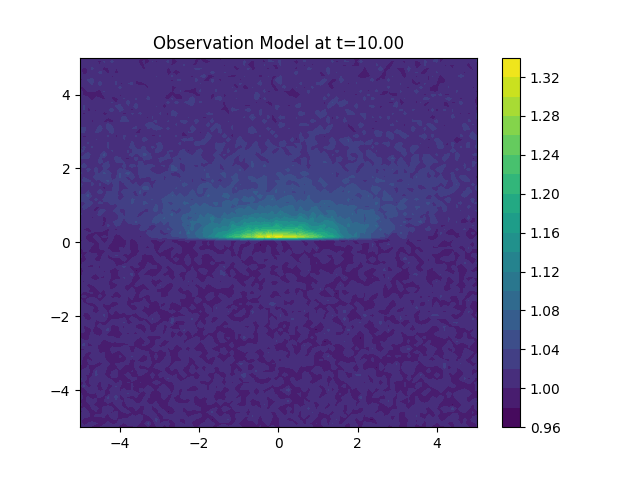
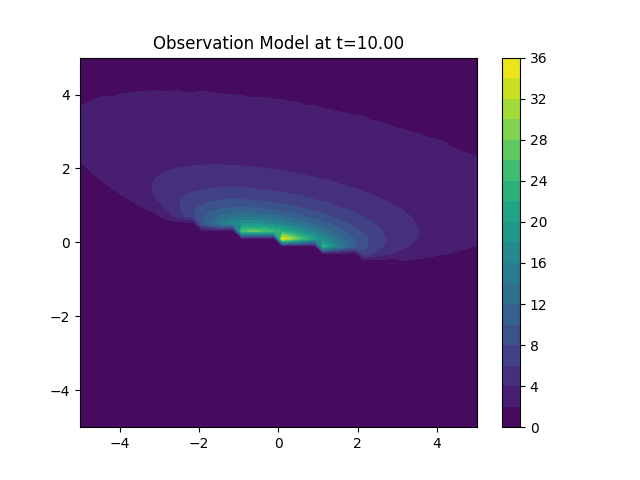
Changed wind to be varting

diff --git a/Code/source_varying_functions.py b/Code/source_varying_functions.py
@@ -1,6 +1,14 @@
 import numpy as np
 from math import cos, sin
 
+
+
+def wind_function(t, wa0, wa, wb):
+    wind = np.array(wa0)
+    for k in range(len(wa)):
+        wind += wa[k] * cos(2 * np.pi * (k + 1) * t) + wb[k] * sin(2 * np.pi * (k + 1) * t)
+    return wind
+
 def s_function(t,ak,bk,a0):
     n_coeff = ak.shape[0]
     constant = a0
@@ -55,7 +63,7 @@ def rwmh(start_point, proposal_variance, n_steps, log_posterior):
 
 
 
-def A_matrix(x_sensor, y_sensor, constants):
+def A_matrix(x_sensor, y_sensor, constants, wind_vector=None):
     """
     Calculates the concentration using the Gaussian plume formula with reflections.
     Supports both scalar and vectorized (grid) inputs for x_sensor and y_sensor.
@@ -63,9 +71,18 @@ def A_matrix(x_sensor, y_sensor, constants):
     # 1. Extract Geometry & Wind
     XS, YS, ZS = constants['XS'], constants['YS'], constants['ZS'] # Source
     Z = constants['Z']  # Sensor Height
-    u_vec = np.array(constants['wind_vector'])
-    u_vec = u_vec / np.linalg.norm(u_vec) # Ensure unit vector
-    U_speed = constants['U']
+    
+    if wind_vector is not None:
+        U_speed = np.linalg.norm(wind_vector)
+        if U_speed > 1e-6:
+            u_vec = wind_vector / U_speed
+        else:
+            # Handle zero wind case if necessary, or assume small non-zero
+            u_vec = np.array([1.0, 0.0]) 
+    else:
+        u_vec = np.array(constants['wind_vector'])
+        u_vec = u_vec / np.linalg.norm(u_vec) # Ensure unit vector
+        U_speed = constants['U']
     
     # 2. Coordinate Rotation
     # Ensure inputs are arrays for uniform processing
@@ -145,7 +162,15 @@ class Model:
         self.physical_constants = physical_constants
     # Observation at (x_1,x_2) at time t
     def y(self,x_1,x_2,t,ak,bk,a0):
-        return A_matrix(x_1,x_2,self.physical_constants)*self.s_function(t,ak,bk,a0)+self.beta+np.random.normal(0,self.sigma_epsilon)
+        wa0 = self.physical_constants.get('wa0')
+        wa = self.physical_constants.get('wa')
+        wb = self.physical_constants.get('wb')
+        if wa0 is not None and wa is not None and wb is not None:
+            current_wind = wind_function(t, wa0, wa, wb)
+            A = A_matrix(x_1, x_2, self.physical_constants, wind_vector=current_wind)
+        else:
+            A = A_matrix(x_1, x_2, self.physical_constants)
+        return A * self.s_function(t, ak, bk, a0) + self.beta + np.random.normal(0, self.sigma_epsilon)
     # Generate data at Nt time steps
     def gen_data(self,T,Nt,Nx,Lx,ak,bk,a0):
         x_1 = np.linspace(-Lx, Lx, Nx)
@@ -181,7 +206,17 @@ class Model:
             st = self.s_function(t, ak, bk, a0)
             
             # Calculate expected value mu(x, t)
-            mu = A_matrix(data['X1'],data['X2'],self.physical_constants)*st + self.beta
+            # Calculate expected value mu(x, t)
+            wa0 = self.physical_constants.get('wa0')
+            wa = self.physical_constants.get('wa')
+            wb = self.physical_constants.get('wb')
+            if wa0 is not None and wa is not None and wb is not None:
+                current_wind = wind_function(t, wa0, wa, wb)
+                A = A_matrix(data['X1'], data['X2'], self.physical_constants, wind_vector=current_wind)
+            else:
+                A = A_matrix(data['X1'], data['X2'], self.physical_constants)
+                
+            mu = A*st + self.beta
             
             # Get observed data for this time step
             y_obs = data_reshaped[i]

diff --git a/Code/plumes/varying_source.py b/Code/plumes/varying_source.py
@@ -29,7 +29,7 @@ T=10
 Nt=10
 Nx=50
 Lx=5
-# Constants
+# Constants, now implmenting wind as Fourier sum
 physical_constants = {
     'RHO_CH4': 0.656, # kg/m^3, density of methane at 25 deg C and 1 atm
     'U': 5.0,         # m/s, wind speed
@@ -49,7 +49,10 @@ physical_constants = {
     'b_V': 1,
     'h': 1,
     'gamma_H': 1,
-    'gamma_V': 1
+    'gamma_V': 1,
+    'wa0': np.array([0.0, 5.0]), # Mean wind vector
+    'wa': [np.array([1.0, 0.0])], # Fourier coefficients for wind (j=1)
+    'wb': [np.array([0.0, 1.0])]
 }
 #%%
 beta = 1
